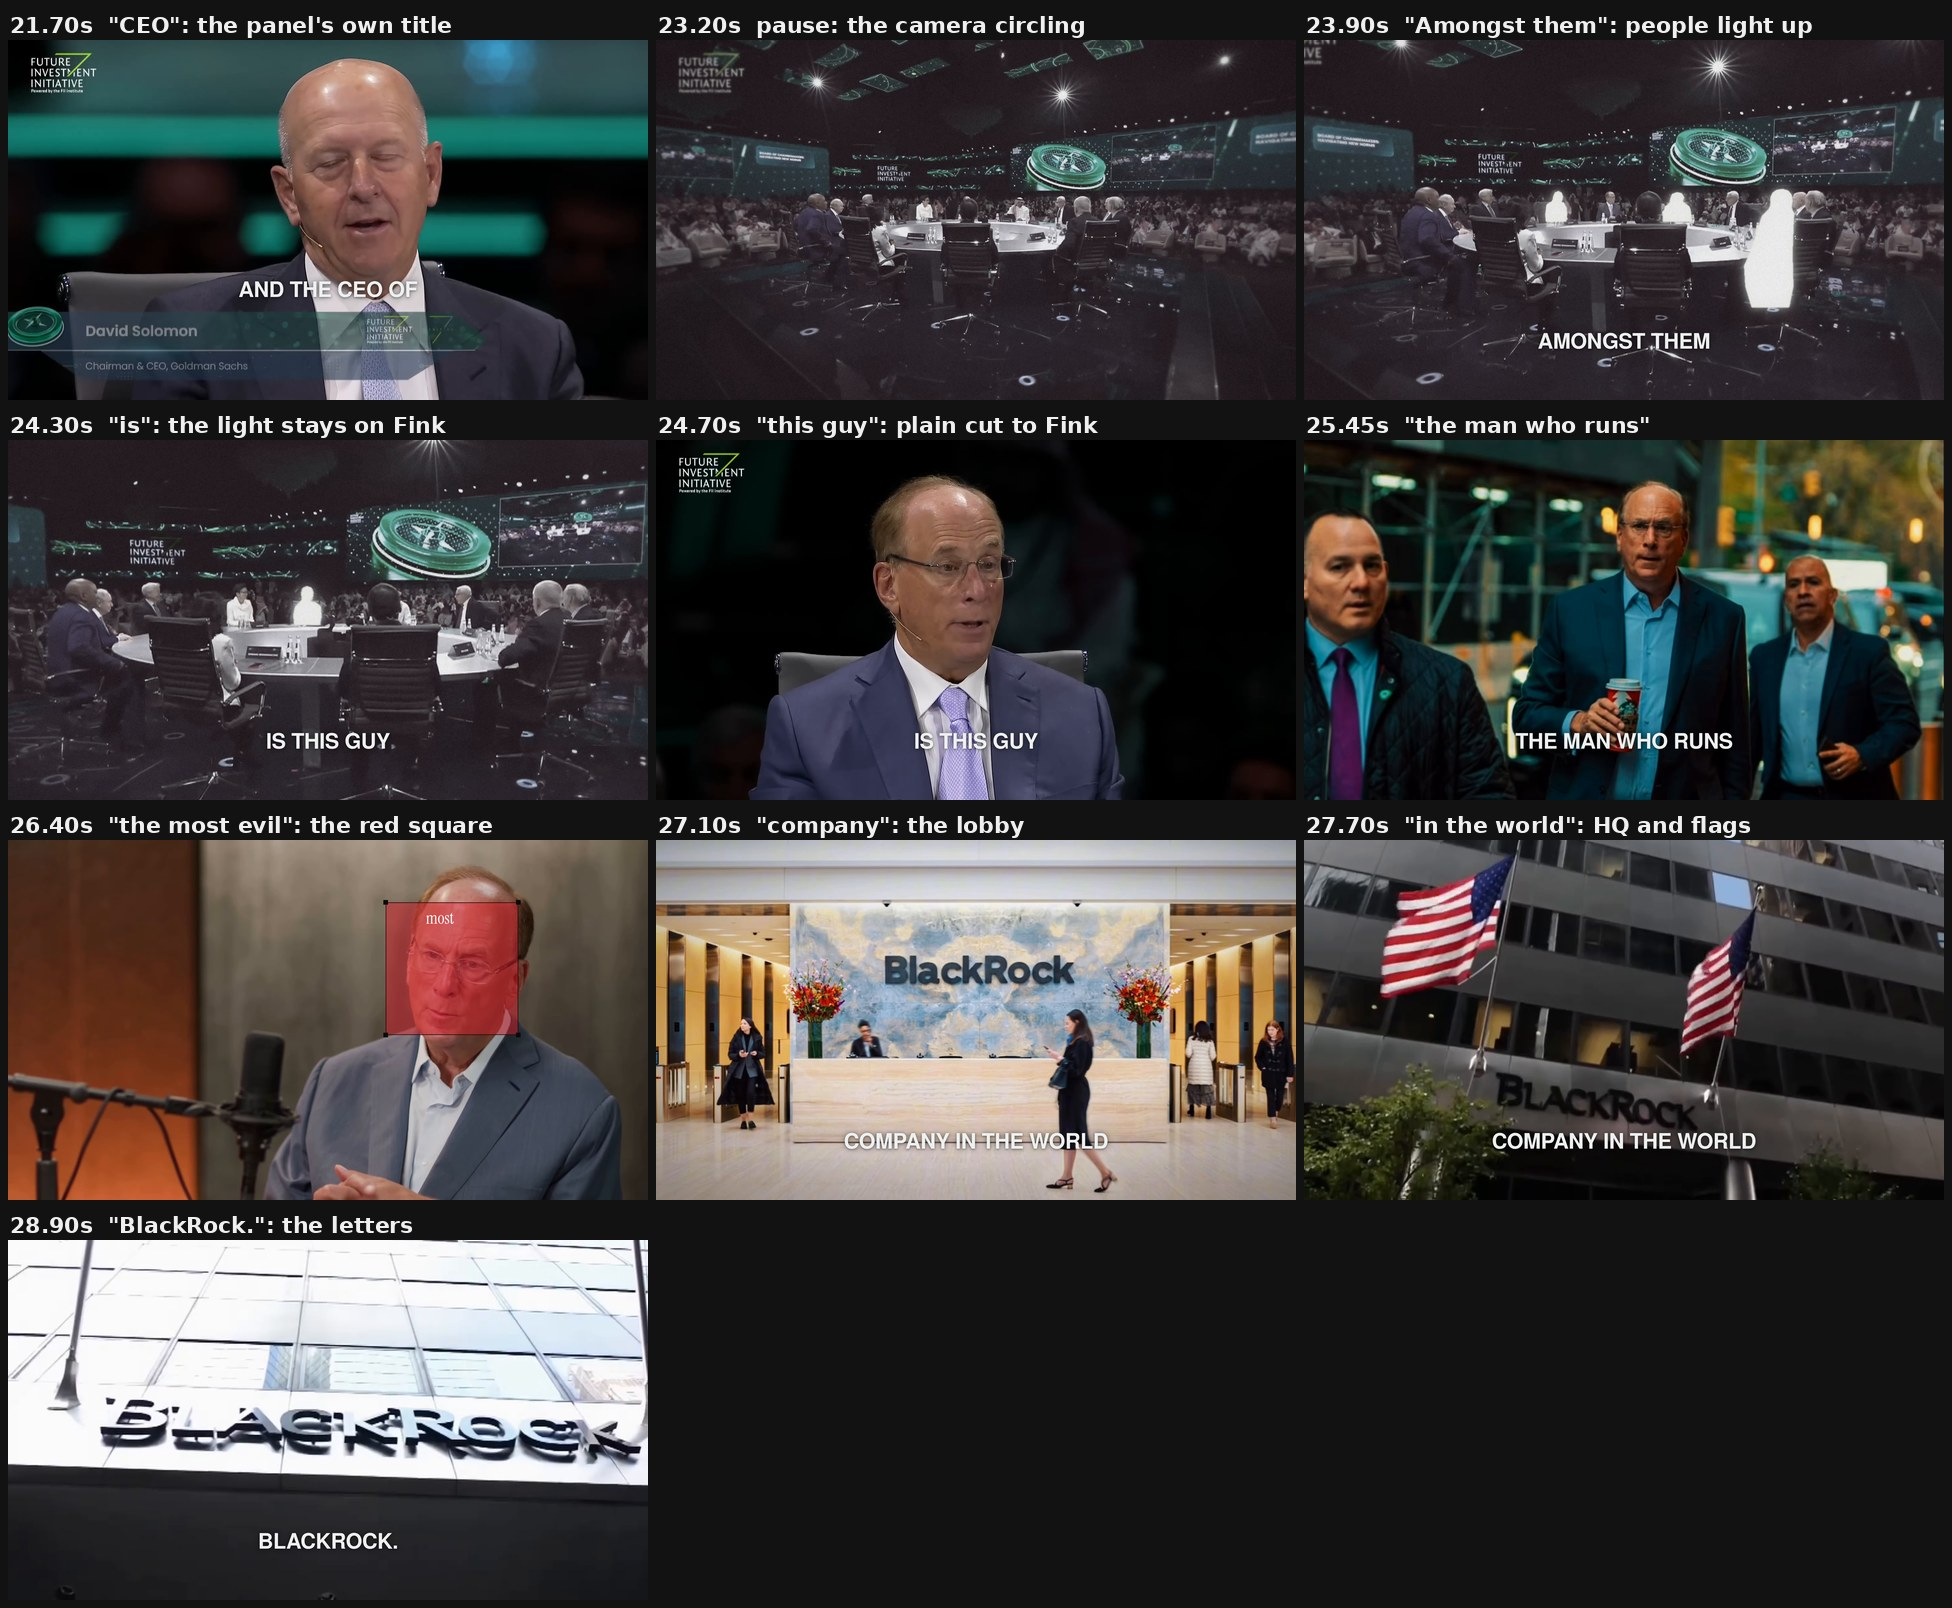
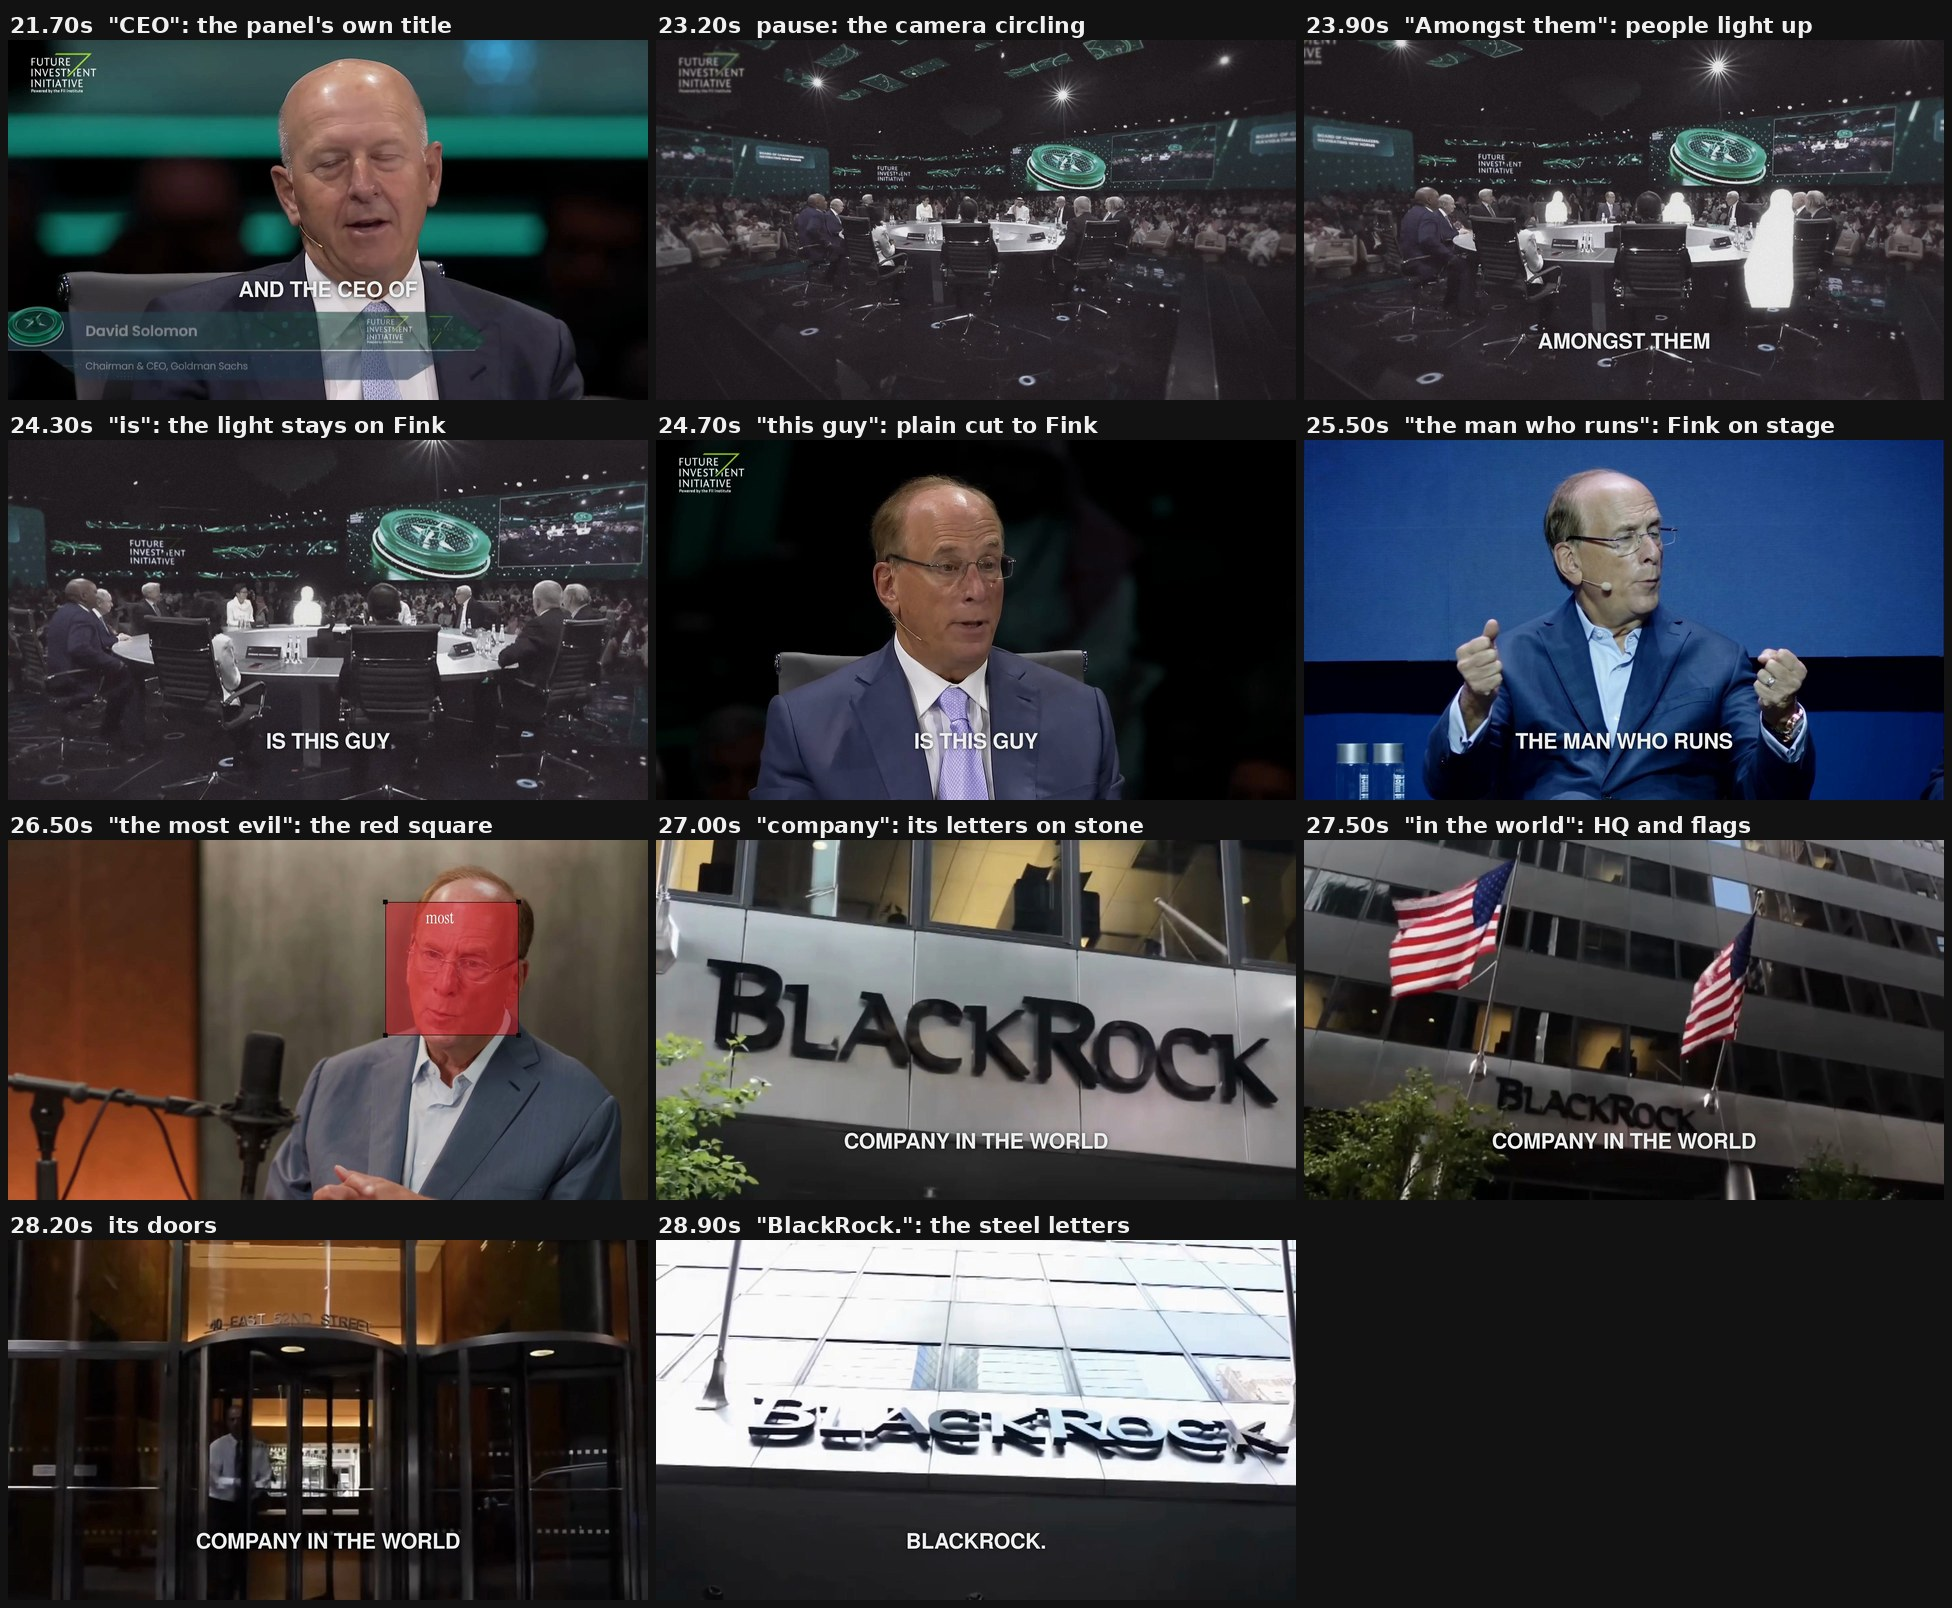
BlackRock v2: real video for "the man who" and "company", rendered at 60 fps
The render showed two held stills inside the source edits (m_fink2's walking shot,
m_finance's lobby). Replaced with Fink on stage (lf_interview2, 60 fps) and the
BLACKROCK letters on stone; the company run now gives each blackrock_short shot its
whole 16-frame cut (the flags clip had run into the next shot). Every plain-cut clip
audited: no internal cuts in its slot, no frozen runs. Review sheets now from the render.

Claude-Session: https://claude.ai/code/session_01Gm9Yp6RxkcfE6EWg6u6FP5

diff --git a/blackrock-open/compositions/s_fink.html b/blackrock-open/compositions/s_fink.html
@@ -22,13 +22,13 @@
 
 </style>
 <div id="root" data-composition-id="s_fink" data-width="1920" data-height="1080" data-duration="4.0834">
-<video id="s_fink-v1" class="clip full" src="assets/clips/v2_fink_walk.mp4" data-start="0.0000" data-duration="0.4500" data-media-start="0.0000" data-track-index="1" muted playsinline style="z-index:1;"></video>
+<video id="s_fink-v1" class="clip full" src="assets/clips/v2_fink_stage.mp4" data-start="0.0000" data-duration="0.4500" data-media-start="0.0000" data-track-index="1" muted playsinline style="z-index:1;"></video>
 <video id="s_fink-v2" class="clip full" src="assets/clips/v2_fink_box.mp4" data-start="0.4500" data-duration="1.0667" data-media-start="0.0000" data-track-index="1" muted playsinline style="z-index:1;"></video>
 <div id="s_fink-d3" class="clip cap" data-start="0.0000" data-duration="0.8334" data-track-index="3" style="z-index:40;top:900px;height:0;"><div class="hv" style="font-size:64px;text-shadow:0 0 18px rgba(0,0,0,0.45),0 2px 6px rgba(0,0,0,0.35);">The man who runs</div></div>
 <div id="s_fink-rb4w" class="clip layer" data-start="0.8334" data-duration="0.6833" data-track-index="3" style="z-index:12;"><div id="s_fink-rb4" style="position:absolute;left:1132px;top:186px;width:400px;height:400px;transform-origin:50% 50%;"><div id="s_fink-f7" style="position:absolute;inset:0;background:rgba(222,30,44,0.4);border:2px solid rgba(36,6,8,0.9);"></div><div style="position:absolute;left:-7px;top:-7px;width:14px;height:14px;background:#0b0b0b;"></div><div style="position:absolute;left:393px;top:-7px;width:14px;height:14px;background:#0b0b0b;"></div><div style="position:absolute;left:-7px;top:393px;width:14px;height:14px;background:#0b0b0b;"></div><div style="position:absolute;left:393px;top:393px;width:14px;height:14px;background:#0b0b0b;"></div><div style="position:absolute;left:0;right:0;top:22px;display:flex;justify-content:center;gap:0.24em;font-family:'ISerif',serif;font-size:50px;line-height:1;color:#fff;letter-spacing:0.005em;"><span id="s_fink-t5">most</span><span id="s_fink-t6" style="opacity:0">evil</span></div></div></div>
-<video id="s_fink-v8" class="clip full" src="assets/clips/v2_br_lobby.mp4" data-start="1.5167" data-duration="0.5833" data-media-start="0.0000" data-track-index="1" muted playsinline style="z-index:1;"></video>
-<video id="s_fink-v9" class="clip full" src="assets/clips/v2_br_bldg.mp4" data-start="2.1000" data-duration="0.6000" data-media-start="0.0000" data-track-index="1" muted playsinline style="z-index:1;"></video>
-<video id="s_fink-v10" class="clip full" src="assets/clips/v2_br_doors.mp4" data-start="2.7000" data-duration="0.5834" data-media-start="0.0000" data-track-index="1" muted playsinline style="z-index:1;"></video>
+<video id="s_fink-v8" class="clip full" src="assets/clips/v2_br_letters.mp4" data-start="1.5167" data-duration="0.4500" data-media-start="0.0000" data-track-index="1" muted playsinline style="z-index:1;"></video>
+<video id="s_fink-v9" class="clip full" src="assets/clips/v2_br_bldg.mp4" data-start="1.9667" data-duration="0.5000" data-media-start="0.0000" data-track-index="1" muted playsinline style="z-index:1;"></video>
+<video id="s_fink-v10" class="clip full" src="assets/clips/v2_br_doors.mp4" data-start="2.4667" data-duration="0.8167" data-media-start="0.0000" data-track-index="1" muted playsinline style="z-index:1;"></video>
 <video id="s_fink-v11" class="clip full" src="assets/clips/v2_br_sign.mp4" data-start="3.2834" data-duration="0.8000" data-media-start="0.0000" data-track-index="1" muted playsinline style="z-index:1;"></video>
 <div id="s_fink-d12" class="clip cap" data-start="1.5167" data-duration="1.7667" data-track-index="3" style="z-index:40;top:900px;height:0;"><div class="hv" style="font-size:64px;text-shadow:0 0 18px rgba(0,0,0,0.45),0 2px 6px rgba(0,0,0,0.35);">Company in the world</div></div>
 <div id="s_fink-d13" class="clip cap" data-start="3.2834" data-duration="0.7666" data-track-index="3" style="z-index:40;top:900px;height:0;"><div class="hv" style="font-size:64px;text-shadow:0 0 18px rgba(0,0,0,0.45),0 2px 6px rgba(0,0,0,0.35);">BlackRock.</div></div>

diff --git a/blackrock-open/tools/prep_v2.py b/blackrock-open/tools/prep_v2.py
@@ -493,15 +493,15 @@ SHOTS = [  # (name, source, start s, seconds, crop filter, start given as frame 
     ("ceo", PANEL, 2802.86, 1.95, None, False),
     # "is this guy": Fink's close-up at the panel
     ("fink_pc", PANEL, 1186.20, 0.98, None, False),
-    # "the man who": Fink walking in New York with his security (the clean run between the edit's mattes)
-    ("fink_walk", f"{DL}/m_fink2.mp4", 5.44, 0.50, None, True),
+    # "the man who": Fink on stage, gesturing (real 60 fps video; m_fink2's walking shot is a held still in that edit)
+    ("fink_stage", f"{DL}/lf_interview2.mp4", 4.30, 0.50, None, True),
     # "runs the most evil": the interview, his face steadiest here (the red square lands on it)
     ("fink_box", f"{DL}/fink_interview.mp4", 53.50, 1.12, None, False),
-    # "company in the world": BlackRock's lobby (after the edit's punch-in), its building and flags, its doors;
-    # "BlackRock.": the steel letters on its facade
-    ("br_lobby", f"{DL}/m_finance.mp4", 12.26, 0.64, None, True),
-    ("br_bldg", f"{DL}/blackrock_short.mp4", 10.48, 0.62, None, True),
-    ("br_doors", f"{DL}/blackrock_short.mp4", 4.30, 0.64, None, True),
+    # "company in the world": the BLACKROCK letters on its stone facade, its building and flags, its doors;
+    # "BlackRock.": the steel letters (m_finance's lobby is a held still in that edit, so it is not used)
+    ("br_letters", f"{DL}/blackrock_short.mp4", 6.85, 0.47, None, True),     # its shot: 6.80-7.33 s
+    ("br_bldg", f"{DL}/blackrock_short.mp4", 10.47, 0.49, None, True),       # its shot: 10.47-10.97 s
+    ("br_doors", f"{DL}/blackrock_short.mp4", 4.20, 0.86, None, True),       # its shot: 3.67-5.53 s
     ("br_sign", f"{DL}/blackrock_short.mp4", 0.00, 0.86, None, True),
 ]
 

diff --git a/blackrock-open/tools/build.py b/blackrock-open/tools/build.py
@@ -314,7 +314,7 @@ BOX_STEPS = [(0.0, 0.885, 0.40), (0.08, 0.945, 0.43), (0.16, 0.980, 0.46), (0.24
 
 def s_fink():
     sc = Scene("s_fink", B["walk"][0], B["brand"][1])
-    sc.video("v2_fink_walk.mp4", *B["walk"], z=1)
+    sc.video("v2_fink_stage.mp4", *B["walk"], z=1)
     sc.video("v2_fink_box.mp4", *B["box"], z=1)
     caption(sc, "The man who runs", T["the3"], T["most"], blend=None, shadow=True)
     # the red square: appears on "most" while the shot plays (not on the cut), settles in steps, stays put
@@ -337,8 +337,10 @@ def s_fink():
         sc.js.append(f'tl.set("#{fill}",{{backgroundColor:"rgba(222,30,44,{al})"}},{sc.at(T["most"] + dt)});')
     sc.js.append(f'tl.set("#{w2}",{{opacity:1}},{sc.at(T["evil"])});')
     # company in the world: BlackRock itself, in plain cuts; "BlackRock.": its letters
-    c = split(*B["company"], 3)
-    cuts(sc, [("v2_br_lobby.mp4", *c[0]), ("v2_br_bldg.mp4", *c[1]), ("v2_br_doors.mp4", *c[2]),
+    # the source edit cuts every 16 frames, so the letters and the flags get their whole shots (0.45 s, 0.5 s)
+    c0, c1 = B["company"]
+    k1, k2 = F(c0 + 0.45), F(c0 + 0.95)
+    cuts(sc, [("v2_br_letters.mp4", c0, k1), ("v2_br_bldg.mp4", k1, k2), ("v2_br_doors.mp4", k2, c1),
               ("v2_br_sign.mp4", *B["brand"])])
     caption(sc, "Company in the world", T["company"], B["company"][1], blend=None, shadow=True)
     caption(sc, "BlackRock.", T["blackrock"], B["brand"][1] - 2 * FR, blend=None, shadow=True)

diff --git a/blackrock-open/tools/timing.py b/blackrock-open/tools/timing.py
@@ -71,7 +71,7 @@ B = {
     "ceo": (T["and"], T["sachs_end"]),         # the panel's own title lands on "CEO"
     "search": (T["sachs_end"], T["this"]),     # the camera circling the table; from "Amongst" people light up
     "thisguy": (T["this"], T["the3"]),         # Fink's close-up at the panel
-    "walk": (T["the3"], T["runs"]),            # "the man who": Fink walking
+    "walk": (T["the3"], T["runs"]),            # "the man who": Fink on stage
     "box": (T["runs"], T["company"]),          # "runs the most evil": the interview, the red square on "most"
     "company": (T["company"], T["blackrock"]), # "company in the world": BlackRock's lobby and building
     "brand": (T["blackrock"], F(V0 + VO_END + 0.045)),  # "BlackRock.": the letters on its facade

diff --git a/blackrock-open/README.md b/blackrock-open/README.md
@@ -19,8 +19,8 @@ needs numpy, pillow, opencv-python-headless<5). The references and what was meas
 | 20.98-22.87 | "and the CEO of Goldman Sachs": the panel shot where its own title lands on "CEO" |
 | 22.87-24.37 | the camera circling the table; from "Amongst them" people light up at random, then Fink alone |
 | 24.37-25.28 | "is this guy": Fink's close-up at the panel |
-| 25.28-26.80 | "the man who runs the most evil": Fink walking with his security; the interview, the VC reel's red square on "most" |
-| 26.80-29.37 | "company in the world. BlackRock.": its lobby, building and flags, its doors, the letters on the facade |
+| 25.28-26.80 | "the man who runs the most evil": Fink on stage; the interview, the VC reel's red square on "most" |
+| 26.80-29.37 | "company in the world. BlackRock.": its letters on stone, building and flags, its doors, the steel letters |
 | 29.37-32.10 | Rogan/Musk clip from 12.55 s: Elon's question only, ending before Rogan's answer |
 
 Type: ON EARTH / WEAPONIZED / CAPITAL in League Gothic, POWERFUL / PEOPLE and the "$60 trillion" words in Inter Display,
